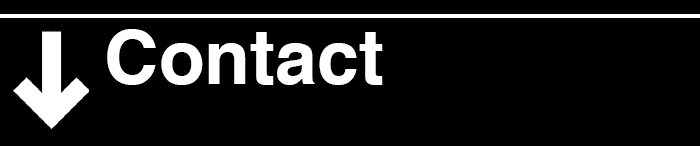
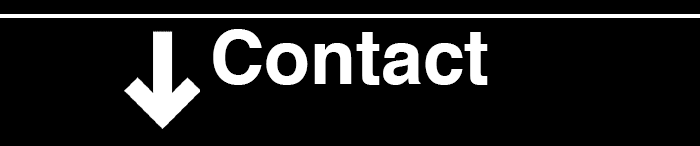
replaced contact subway sign 2

Changed region(s): [[0.15, 0.1918, 0.72, 0.8767], [0.0, 0.1918, 0.15, 0.8767]]

diff --git a/index.html b/index.html
@@ -77,7 +77,7 @@
     </div>
 
     <a href="#contact">
-      <img class="box-shadow" id="contact-sign-img" src="https://github.com/rbhogal/FCC-Personal-Portfolio/blob/master/Contact%20Subway%20Sign.png?raw=true" alt="Contacts Subway Sign">
+      <img class="box-shadow" id="contact-sign-img" src="https://github.com/rbhogal/FCC-Personal-Portfolio/blob/master/Contact%20Subway%20Sign%202.png?raw=true" alt="Contacts Subway Sign">
     </a>
   
 </section>

diff --git a/style.css b/style.css
@@ -165,6 +165,7 @@ body {
 
 #contact-sign-img {
     width: 350px;
+    height: 69px;
     display: block;
     margin: auto;
     transition: box-shadow .3s ease 0s;
